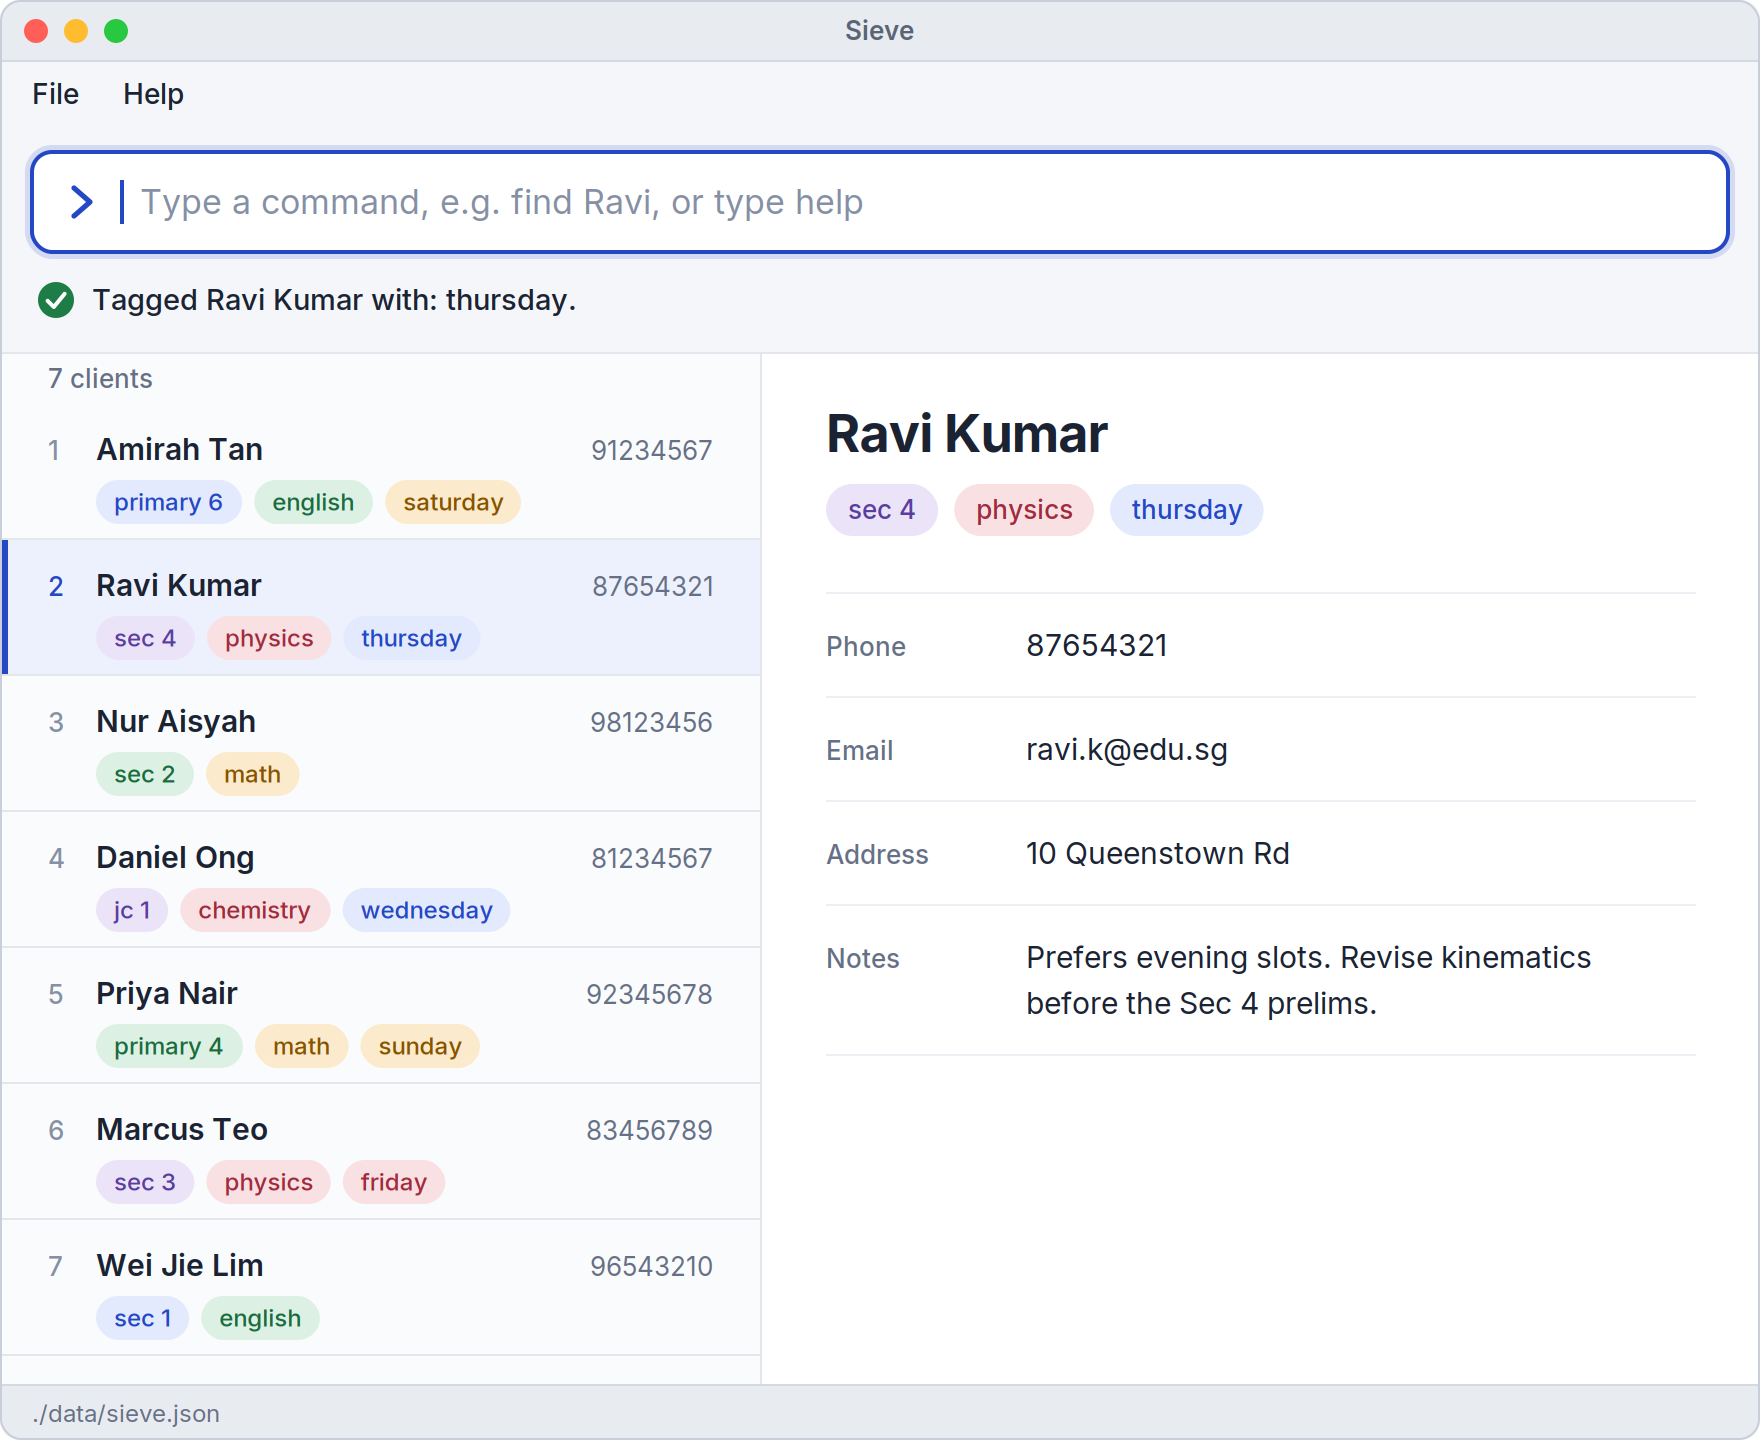
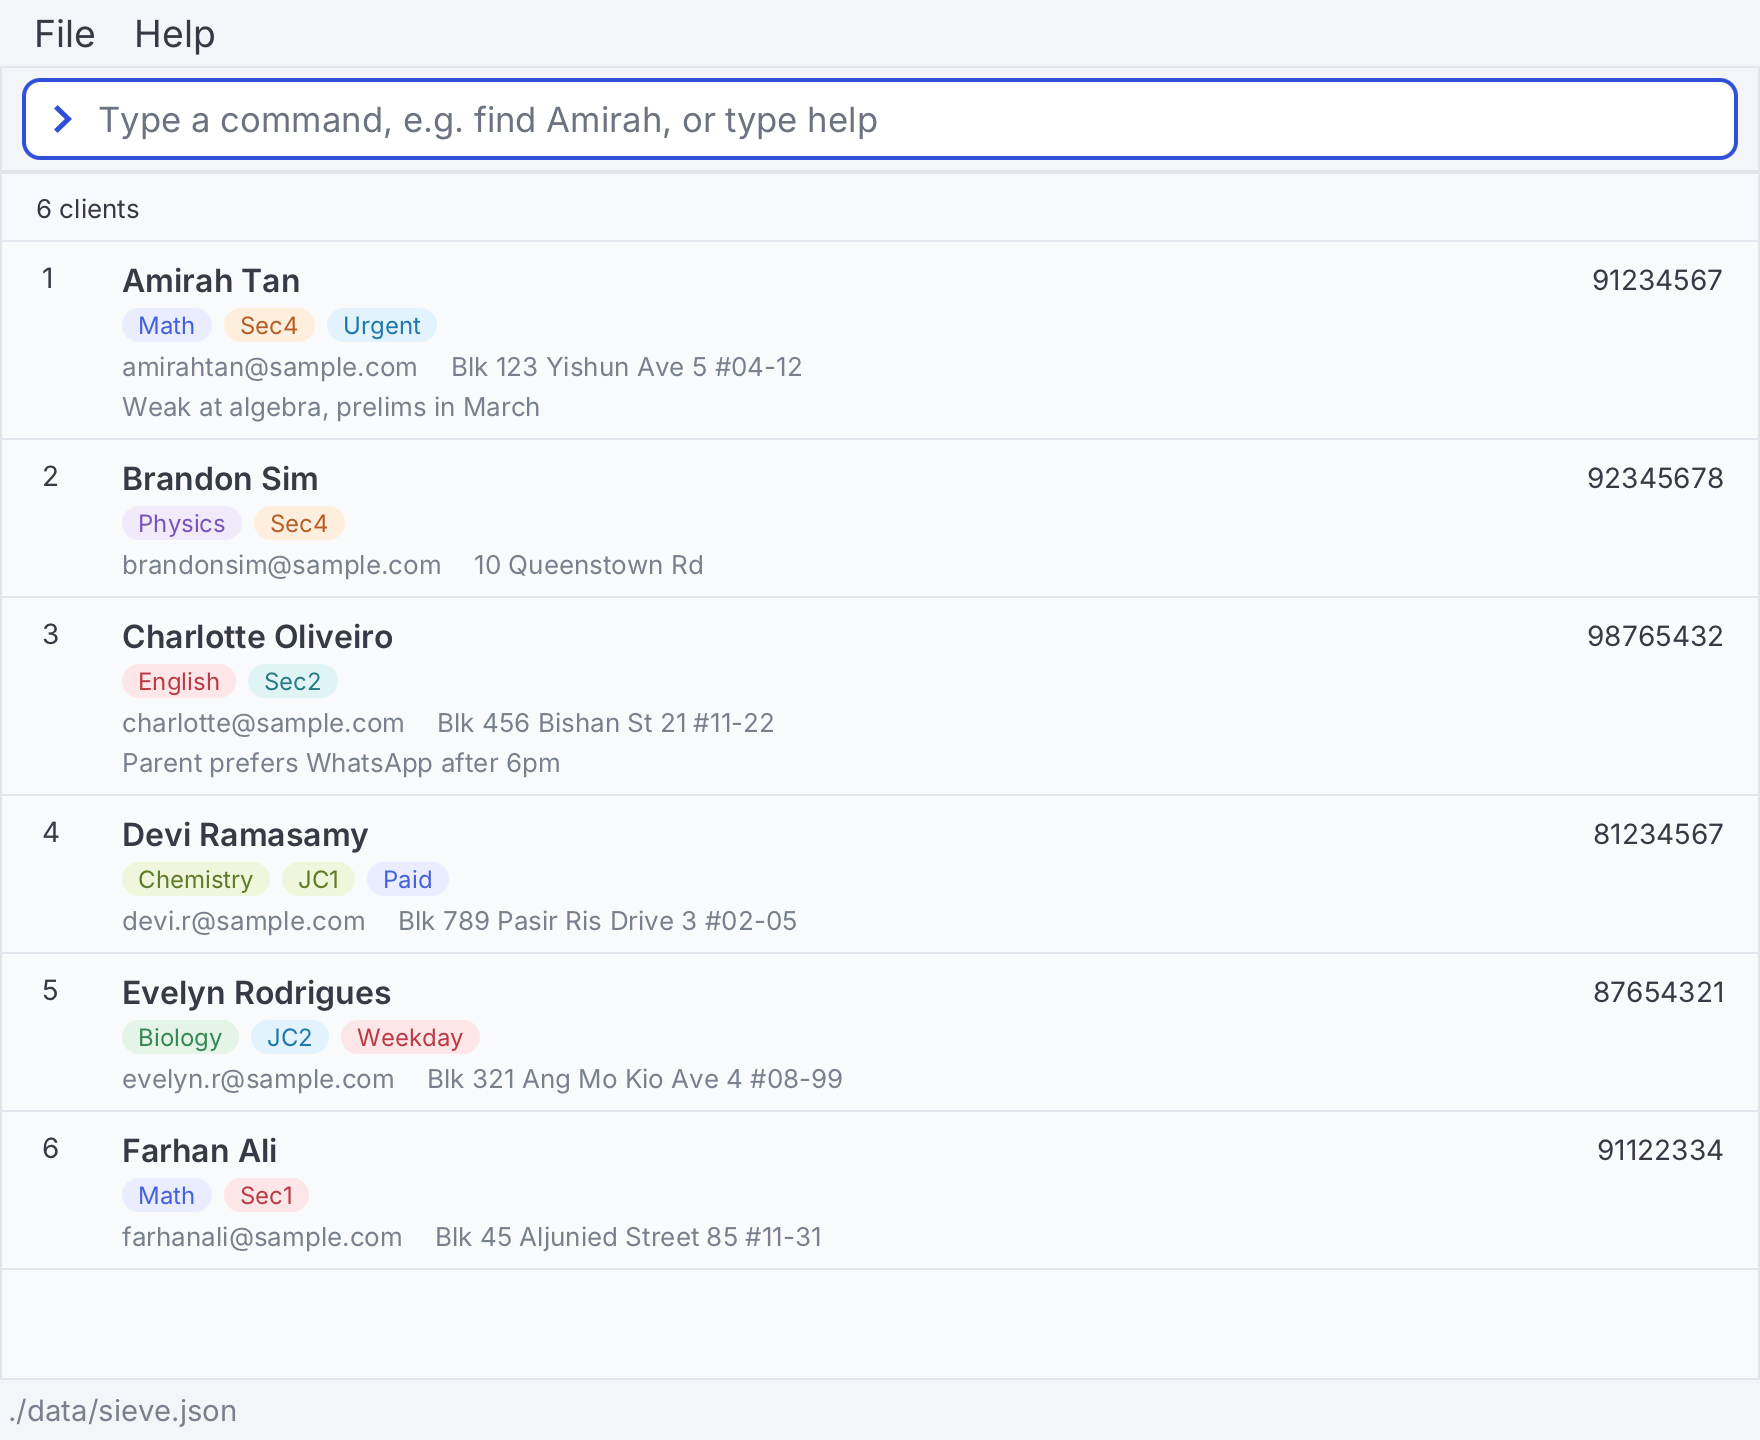
Add tests and docs for the restyled main window
ResultDisplay's success and error states are not tested, the DG does
not describe them or the bundled font, and the UG screenshot is still
the UI mockup, which shows a details panel that Sieve does not have.

Let's,
* add ResultDisplayTest
* describe command results and the Inter font in the DG UI section
* replace the UG screenshot with one of the real main window

diff --git a/src/test/java/seedu/address/ui/ResultDisplayTest.java b/src/test/java/seedu/address/ui/ResultDisplayTest.java
@@ -1,0 +1,83 @@
+package seedu.address.ui;
+
+import static org.junit.jupiter.api.Assertions.assertEquals;
+import static org.junit.jupiter.api.Assertions.assertFalse;
+import static org.junit.jupiter.api.Assertions.assertTrue;
+import static seedu.address.testutil.Assert.assertThrows;
+
+import org.junit.jupiter.api.Test;
+import org.junit.jupiter.api.extension.ExtendWith;
+import org.testfx.api.FxRobot;
+import org.testfx.framework.junit5.ApplicationExtension;
+import org.testfx.framework.junit5.Start;
+
+import javafx.css.PseudoClass;
+import javafx.scene.Scene;
+import javafx.scene.control.Label;
+import javafx.scene.layout.Region;
+import javafx.stage.Stage;
+
+@ExtendWith(ApplicationExtension.class)
+public class ResultDisplayTest {
+
+    private static final PseudoClass ERROR_PSEUDO_CLASS = PseudoClass.getPseudoClass("error");
+    private static final String SUCCESS_MESSAGE = "Listed all clients.";
+    private static final String ERROR_MESSAGE = "Invalid command format!";
+
+    private ResultDisplay resultDisplay;
+    private Region root;
+    private Label resultMessage;
+
+    @Start
+    public void start(Stage stage) {
+        resultDisplay = new ResultDisplay();
+        root = resultDisplay.getRoot();
+        resultMessage = (Label) root.lookup("#resultMessage");
+        stage.setScene(new Scene(root));
+        stage.show();
+    }
+
+    @Test
+    public void constructor_hiddenUntilFirstMessage() {
+        assertFalse(root.isVisible());
+        assertFalse(root.isManaged());
+    }
+
+    @Test
+    public void setFeedbackToUser_message_shownAsSuccess(FxRobot robot) {
+        robot.interact(() -> resultDisplay.setFeedbackToUser(SUCCESS_MESSAGE));
+
+        assertEquals(SUCCESS_MESSAGE, resultMessage.getText());
+        assertTrue(root.isVisible());
+        assertTrue(root.isManaged());
+        assertFalse(isShownAsError());
+    }
+
+    @Test
+    public void setErrorToUser_message_shownAsError(FxRobot robot) {
+        robot.interact(() -> resultDisplay.setErrorToUser(ERROR_MESSAGE));
+
+        assertEquals(ERROR_MESSAGE, resultMessage.getText());
+        assertTrue(root.isVisible());
+        assertTrue(isShownAsError());
+    }
+
+    @Test
+    public void setFeedbackToUser_afterError_noLongerShownAsError(FxRobot robot) {
+        robot.interact(() -> resultDisplay.setErrorToUser(ERROR_MESSAGE));
+        robot.interact(() -> resultDisplay.setFeedbackToUser(SUCCESS_MESSAGE));
+
+        assertEquals(SUCCESS_MESSAGE, resultMessage.getText());
+        assertFalse(isShownAsError());
+    }
+
+    @Test
+    public void setMessage_null_throwsNullPointerException() {
+        assertThrows(NullPointerException.class, () -> resultDisplay.setFeedbackToUser(null));
+        assertThrows(NullPointerException.class, () -> resultDisplay.setErrorToUser(null));
+    }
+
+    private boolean isShownAsError() {
+        return root.getPseudoClassStates().contains(ERROR_PSEUDO_CLASS);
+    }
+}

diff --git a/docs/DeveloperGuide.md b/docs/DeveloperGuide.md
@@ -104,9 +104,17 @@ The look of the UI is defined in `.css` files in the same folder:
 * `LightTheme.css` defines the colour palette once, as looked-up colours on `.root` (e.g. `-sieve-accent`), and every
   other rule refers to these names. To change a colour, change it in `.root` only. Each window is a separate JavaFX
   `Scene` with its own stylesheets, so both `MainWindow.fxml` and `HelpWindow.fxml` load `LightTheme.css`.
-* `Extensions.css` adds a few rules to the main window, such as the style of a command that failed.
+* `LightTheme.css` also loads the bundled Inter font from `src/main/resources/fonts` with `@font-face`, and sets it on
+  `.root`, so all text uses it on every platform. JavaFX registers the SemiBold font as a separate family, so rules
+  that need it use `-fx-font-family: "Inter SemiBold"` rather than `-fx-font-weight`.
+* `Extensions.css` adds a few rules to the main window, such as the background of the empty rows below the last client.
 
-Two parts of the client list are worth knowing about when changing it:
+A few parts of the main window are worth knowing about when changing them:
+
+* **Command results.** `MainWindow` shows the result of a command with `ResultDisplay#setFeedbackToUser(String)`, or
+  with `ResultDisplay#setErrorToUser(String)` if the command failed. `ResultDisplay` turns its `:error` pseudo-class on
+  or off to match, and `LightTheme.css` uses it to show a green tick or a red cross and red text. The icons are empty
+  `Region`s shaped with `-fx-shape`, so no image files are needed. The result line is hidden until the first command.
 
 * **Tag colours.** `PersonCard` gives each tag a style class from `TagColor`, from `tag-color-0` to `tag-color-11`.
   `TagColor` picks it from the tag's name, ignoring case, so a tag has the same colour on every client and every
